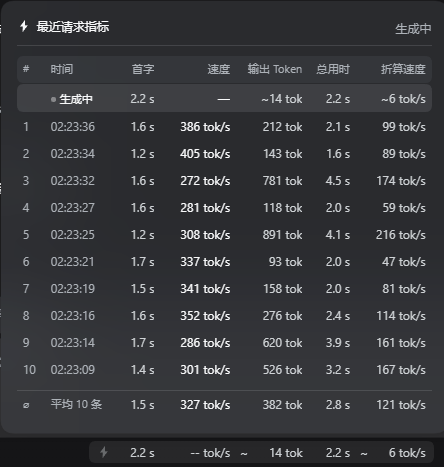
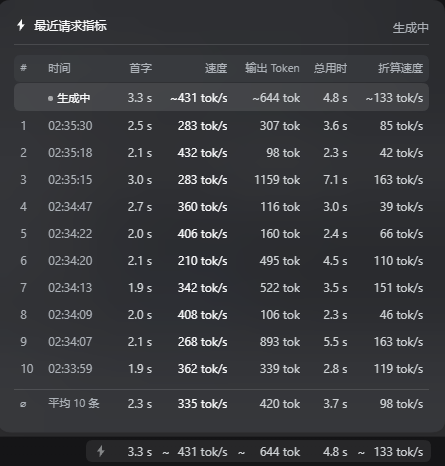
文档：中英各一张抽屉截图，供 dsh-market 详情页展示

diff --git a/README.en.md b/README.en.md
@@ -7,11 +7,15 @@ native **Performance & usage** preference in Settings → General, and while tha
 is active it keeps a live reading of the newest request in the composer status row
 plus a glass drawer with the last ten requests.
 
-![The drawer: recent request metrics](assets/screenshot-1.png)
+![The drawer: recent request metrics (English)](assets/screenshot-2.png)
 
 The drawer open: the step still streaming sits on top (its first-token figure climbing,
 speed shown as `—`), the last ten requests follow newest first, and their average closes
 the list. The status pill sits below it, its columns aligned with the table's.
+
+The UI is bilingual and follows the DSH language setting. The same drawer in Chinese:
+
+![The drawer: recent request metrics (Chinese)](assets/screenshot-1.png)
 
 ## What you get
 

diff --git a/README.md b/README.md
@@ -6,11 +6,15 @@ DSH 的极客级请求指标。它在 **设置 → 通用 → 性能与用量** 
 
 **简体中文** · [English](README.en.md)
 
-![抽屉：最近请求指标](assets/screenshot-1.png)
+![抽屉：最近请求指标（中文）](assets/screenshot-1.png)
 
 上图是抽屉展开的样子：顶部是正在生成的那一条（首字在增长，速度列显示 `—`），
 下面按新到旧列出最近 10 次请求，底部一行是它们的平均值。
 最下方是状态栏里的气泡，与抽屉各列一一对齐。
+
+界面为中英双语，跟随 DSH 的语言设置。英文界面下的同一抽屉：
+
+![抽屉：最近请求指标（英文）](assets/screenshot-2.png)
 
 ## 你会得到什么
 
